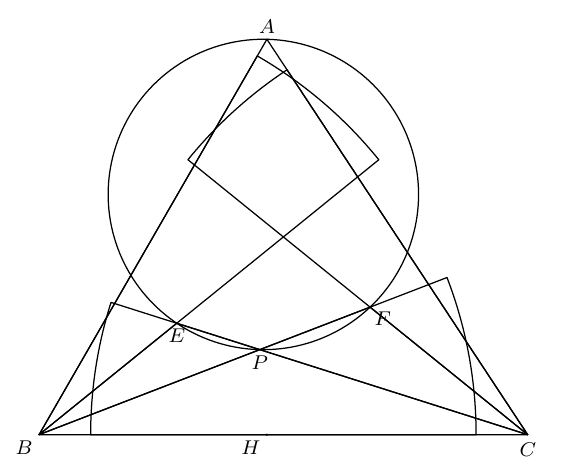
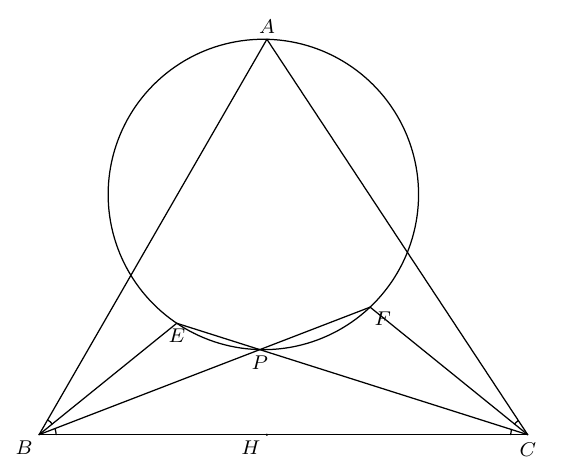
Render compact angle markers

diff --git a/src/grapher/converter.py b/src/grapher/converter.py
@@ -334,6 +334,7 @@ def _acute_anglemark(
     names: list[str],
     points: dict[str, tuple[float, float]],
     name_map: _NameMap,
+    radius: float,
 ) -> str | None:
     if len(names) < 3 or not all(name in points for name in names[:3]):
         return None
@@ -346,18 +347,22 @@ def _acute_anglemark(
     if math.hypot(*first_vector) < 1e-12 or math.hypot(*third_vector) < 1e-12:
         return None
 
-    first_expr = name_map.get(first_name)
-    vertex_expr = name_map.get(vertex_name)
-    third_expr = name_map.get(third_name)
     if first_vector[0] * third_vector[0] + first_vector[1] * third_vector[1] < 0:
         first_vector = (-first_vector[0], -first_vector[1])
-        first_expr = f"(2*{vertex_expr}-{first_expr})"
     cross = first_vector[0] * third_vector[1] - first_vector[1] * third_vector[0]
     if abs(cross) < 1e-12:
         return None
     if cross < 0:
-        first_expr, third_expr = third_expr, first_expr
-    return f"draw(anglemark({first_expr},{vertex_expr},{third_expr}));"
+        first_vector, third_vector = third_vector, first_vector
+
+    start_angle = math.degrees(math.atan2(first_vector[1], first_vector[0]))
+    end_angle = math.degrees(math.atan2(third_vector[1], third_vector[0]))
+    while end_angle <= start_angle:
+        end_angle += 360
+    return (
+        f"draw(arc({name_map.get(vertex_name)}, {_format_float(radius)}, "
+        f"{_format_float(start_angle)}, {_format_float(end_angle)}), thinline);"
+    )
 
 
 def _conic_expression(matrix: dict[str, float]) -> str | None:
@@ -785,6 +790,7 @@ class _Generator:
         view = self.parsed.viewport
         circles = _circle_obstacles(objects)
         canvas_min, canvas_max = _compact_canvas_bounds(objects, points, circles, view)
+        drawing_scale = max(canvas_max[0] - canvas_min[0], canvas_max[1] - canvas_min[1])
         layout_view = Viewport(
             x_min=canvas_min[0], x_max=canvas_max[0],
             y_min=canvas_min[1], y_max=canvas_max[1],
@@ -951,7 +957,9 @@ class _Generator:
                 else:
                     warnings.append(f'Skipped function {obj.name}: expression is unavailable.')
             elif obj.kind == "angle":
-                angle = _acute_anglemark(self._visible_inputs(obj, points), points, name_map)
+                angle = _acute_anglemark(
+                    self._visible_inputs(obj, points), points, name_map, 0.03 * drawing_scale
+                )
                 if angle:
                     angle_drawings.append(angle)
             elif self.debug and obj.kind not in {"numeric", "text", "boolean"}:
@@ -1011,7 +1019,7 @@ class _Generator:
             ])
 
         if has_angle_marks and angle_drawings:
-            body.extend(['', '// 锐角标记', 'markscalefactor = 0.1;', *angle_drawings])
+            body.extend(['', '// 锐角标记', *angle_drawings])
 
         if point_lines:
             body.extend(['', '// 点与标签', *point_lines])
@@ -1037,6 +1045,8 @@ def convert_ggb_to_asy(
     if output_path is not None:
         Path(output_path).write_text(result.code, encoding="utf-8")
     return result
+
+
 
 
 

diff --git a/tests/test_converter.py b/tests/test_converter.py
@@ -160,7 +160,8 @@ class ConverterTests(unittest.TestCase):
             path = Path(tmpdir) / "angle.ggb"
             make_ggb(path, xml)
             code = convert_ggb_to_asy(path).code
-            self.assertIn("draw(anglemark(C,V,(2*V-A)));", code)
+            self.assertRegex(code, r"draw\(arc\(V, [0-9.]+, 135, 180\), thinline\);")
+            self.assertNotIn("markscalefactor", code)
 
     def test_canvas_uses_compact_geometry_bounds_and_dense_labels_are_offset(self):
         xml = """<geogebra>
@@ -247,6 +248,8 @@ class ConverterTests(unittest.TestCase):
 
 if __name__ == "__main__":
     unittest.main()
+
+
 
 
 

diff --git a/docs/USAGE.zh-CN.md b/docs/USAGE.zh-CN.md
@@ -255,7 +255,7 @@ import contour;
 
 ### 6.6 角标记
 
-可见角对象会生成 `anglemark`。当前版本按几何图常用习惯绘制锐角标记，并自动调整射线方向，避免错误地标记成外角或钝角。
+可见角对象会生成半径随画布缩放的小圆弧 `arc()`。当前版本按几何图常用习惯绘制锐角标记，并自动调整射线方向，避免错误地标记成外角、钝角或过大的角弧。
 
 ### 6.7 坐标轴和网格
 
@@ -600,4 +600,5 @@ python -m py_compile `
 3. 使用 `asy -f pdf` 编译
 4. 对照 GeoGebra 原图检查坐标、虚实线、颜色和标签
 5. 必要时手工微调少量标签
+
 
